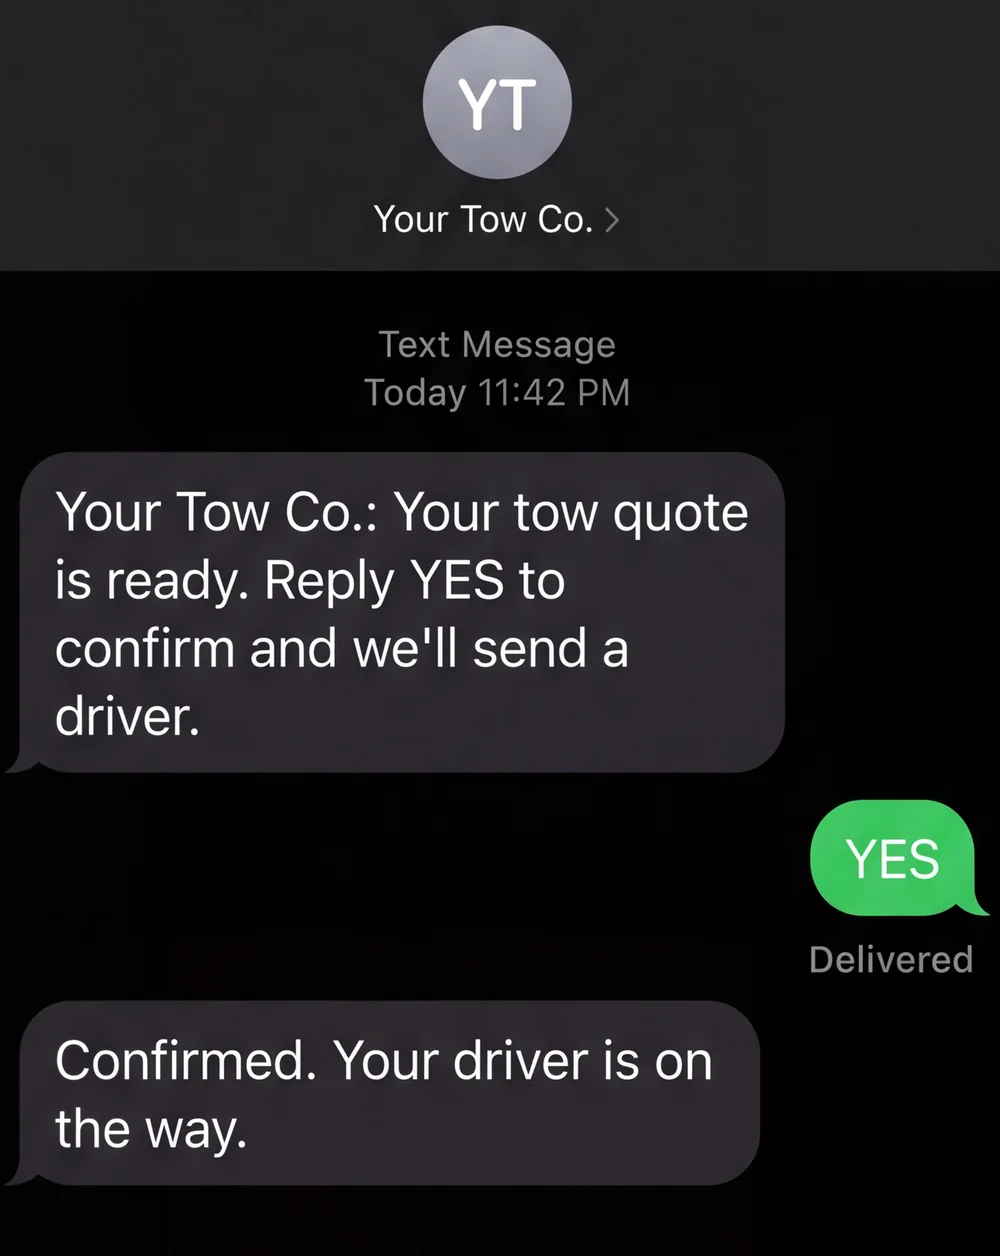
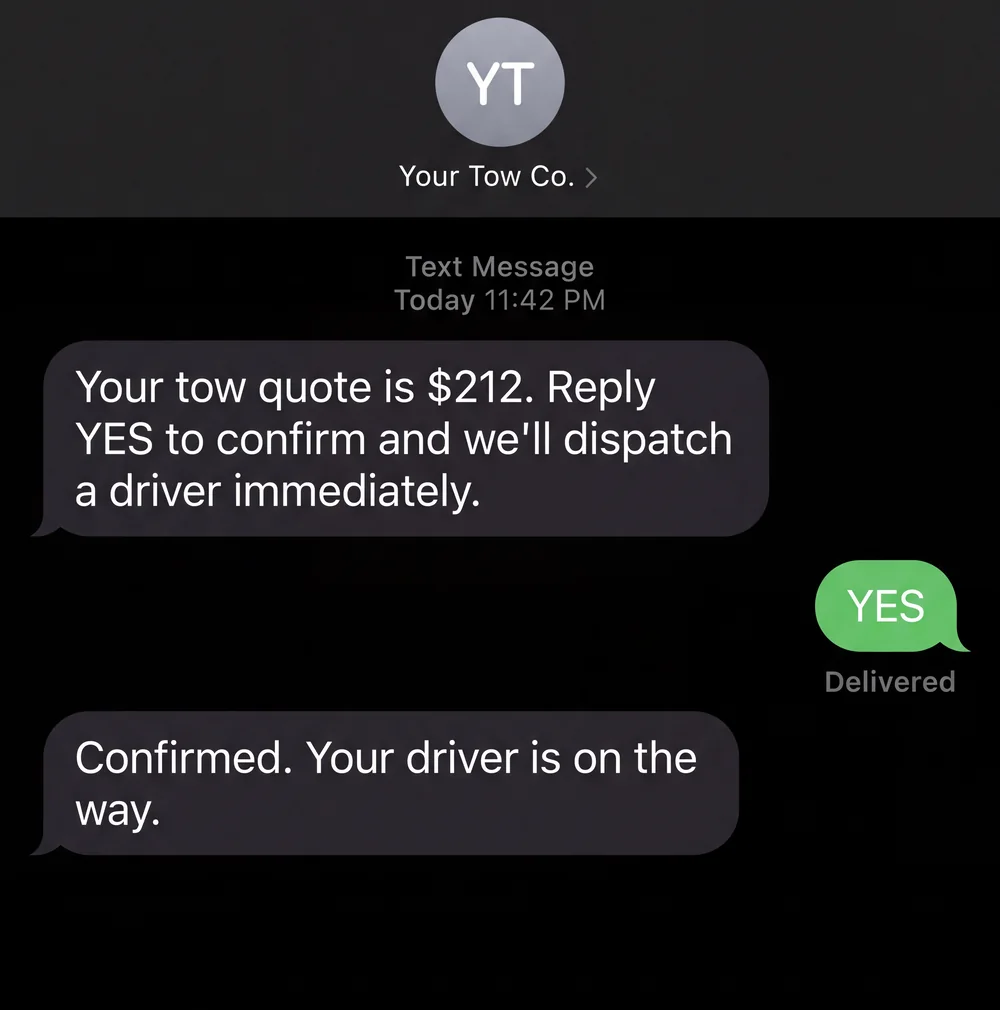
Show an actual quote amount in the Web Forms text screenshot
The quote thread now reads "Your tow quote is $212. Reply YES to confirm
and we'll dispatch a driver immediately." and is a full-bleed screenshot.

Claude-Session: https://claude.ai/code/session_01QozjXnkBDgD25Ken8NMvP1

diff --git a/website/web-forms.html b/website/web-forms.html
@@ -131,7 +131,7 @@
         <p class="feature__line">The quote is priced from your rate sheet and texted to the customer automatically. Your driver is dispatched only after the customer replies YES.</p>
       </div>
       <div class="feature__visual reveal">
-        <img class="shot shot--phone" src="images/wf-quote.webp" alt="Text message thread: Your Tow Co. sends the tow quote, the customer replies YES, and the driver is confirmed on the way" width="1000" height="1256" loading="lazy" decoding="async">
+        <img class="shot shot--phone" src="images/wf-quote.webp" alt="Text message thread: Your Tow Co. texts a $212 tow quote, the customer replies YES, and the driver is confirmed on the way" width="1000" height="1010" loading="lazy" decoding="async">
       </div>
     </div>
   </section>
